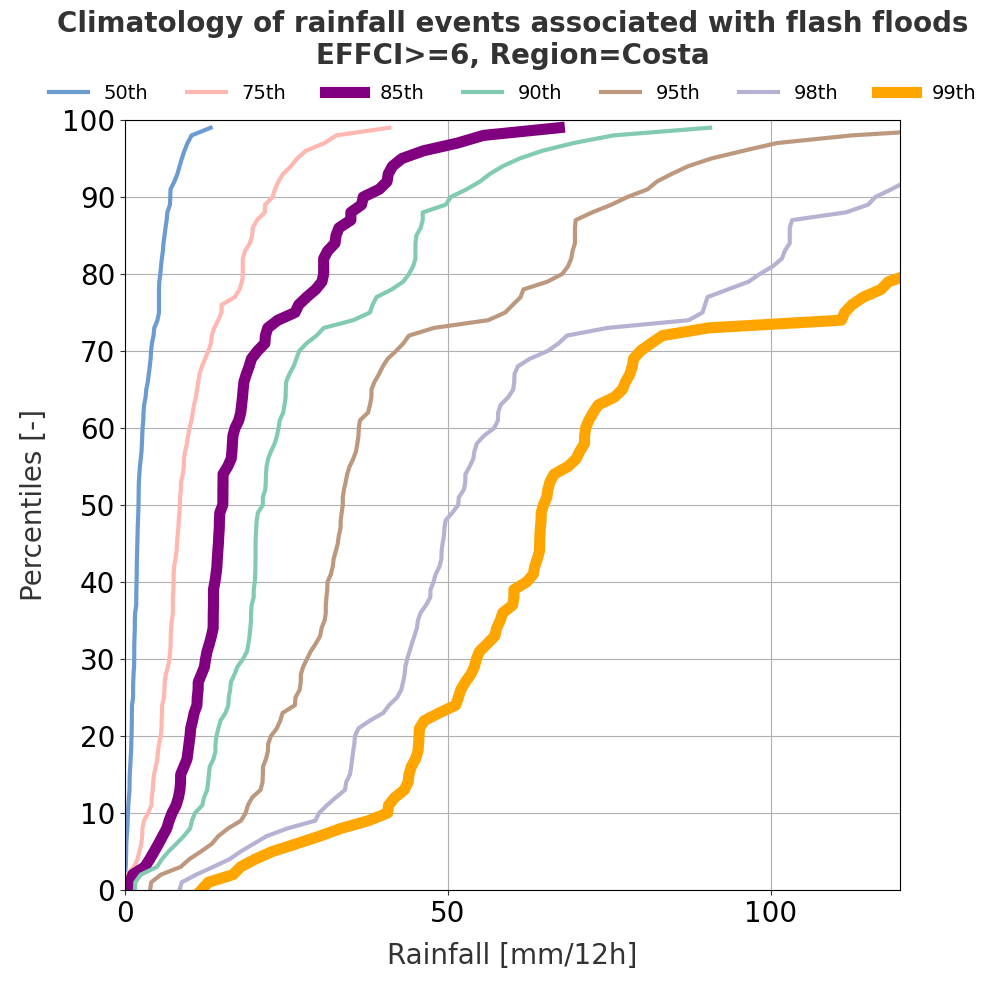
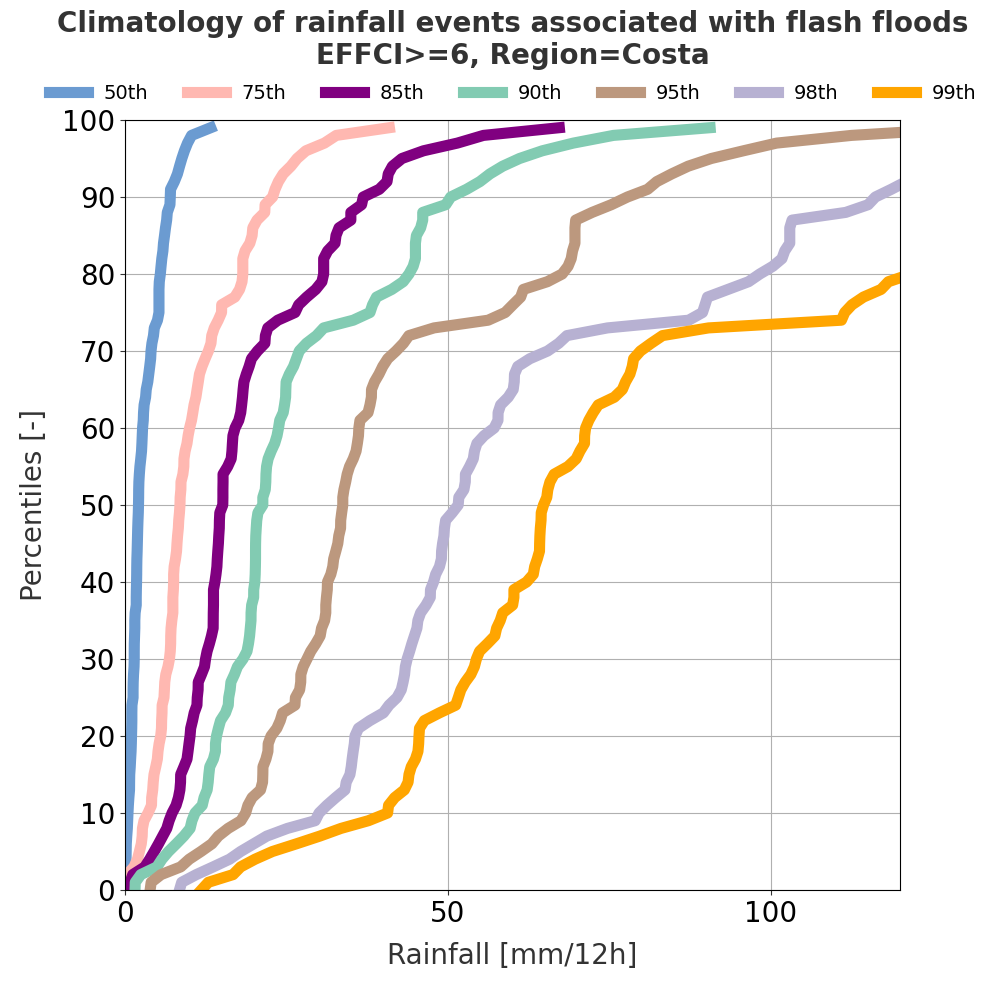
Removed the line at the 25th percentiles in the climatologies of rainfall totals associated with flash floods.

diff --git a/Scripts/Processed/10_Plot_Climate_Rain_FR.py b/Scripts/Processed/10_Plot_Climate_Rain_FR.py
@@ -62,7 +62,7 @@ for EFFCI in EFFCI_list:
                   if MagnitudeInPerc_Rain_Event_FR == 85 or MagnitudeInPerc_Rain_Event_FR == 99:
                         LineWidth = 8
                   else:
-                        LineWidth = 3
+                        LineWidth = 8
                   ax.plot(climate_rain_FR, percentiles, color=MagnitudeInPerc_Rain_Event_FR_colours, linewidth=LineWidth, label=str(MagnitudeInPerc_Rain_Event_FR) + "th")
             
             # Setting the plot metadata - Normal plot
